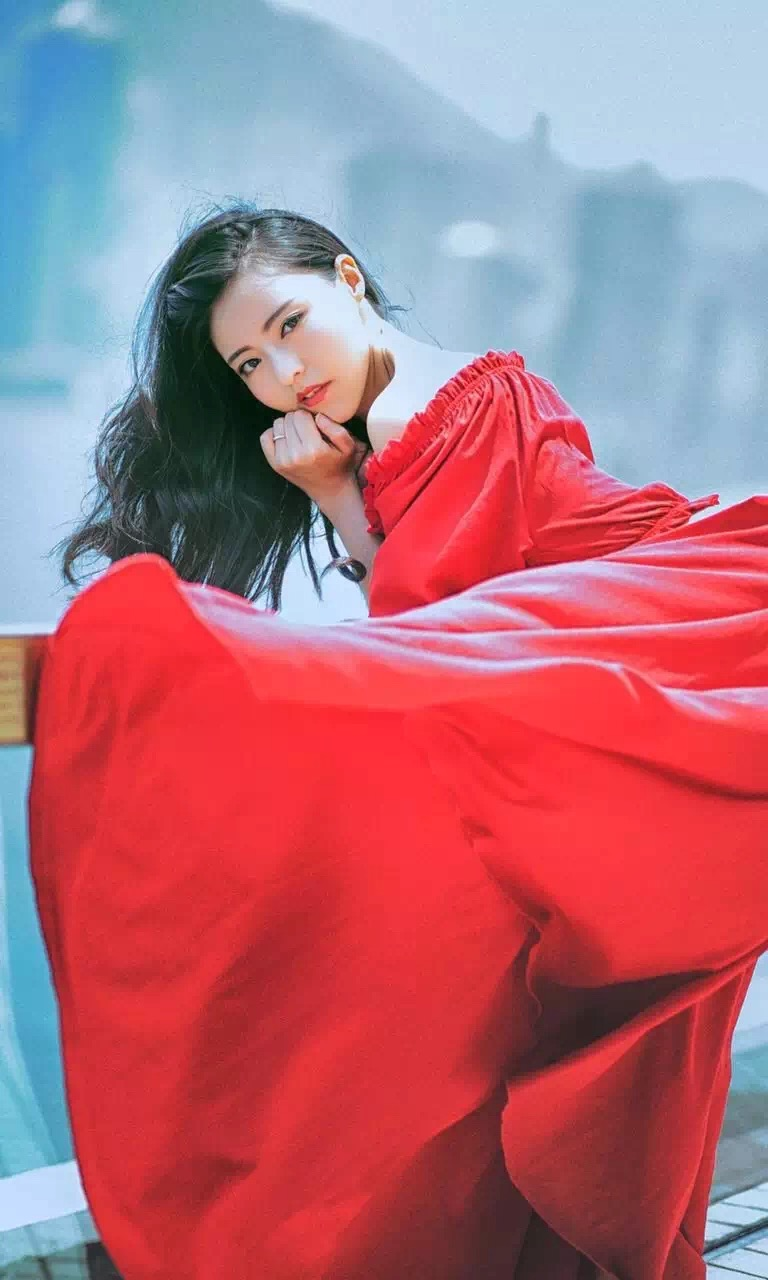
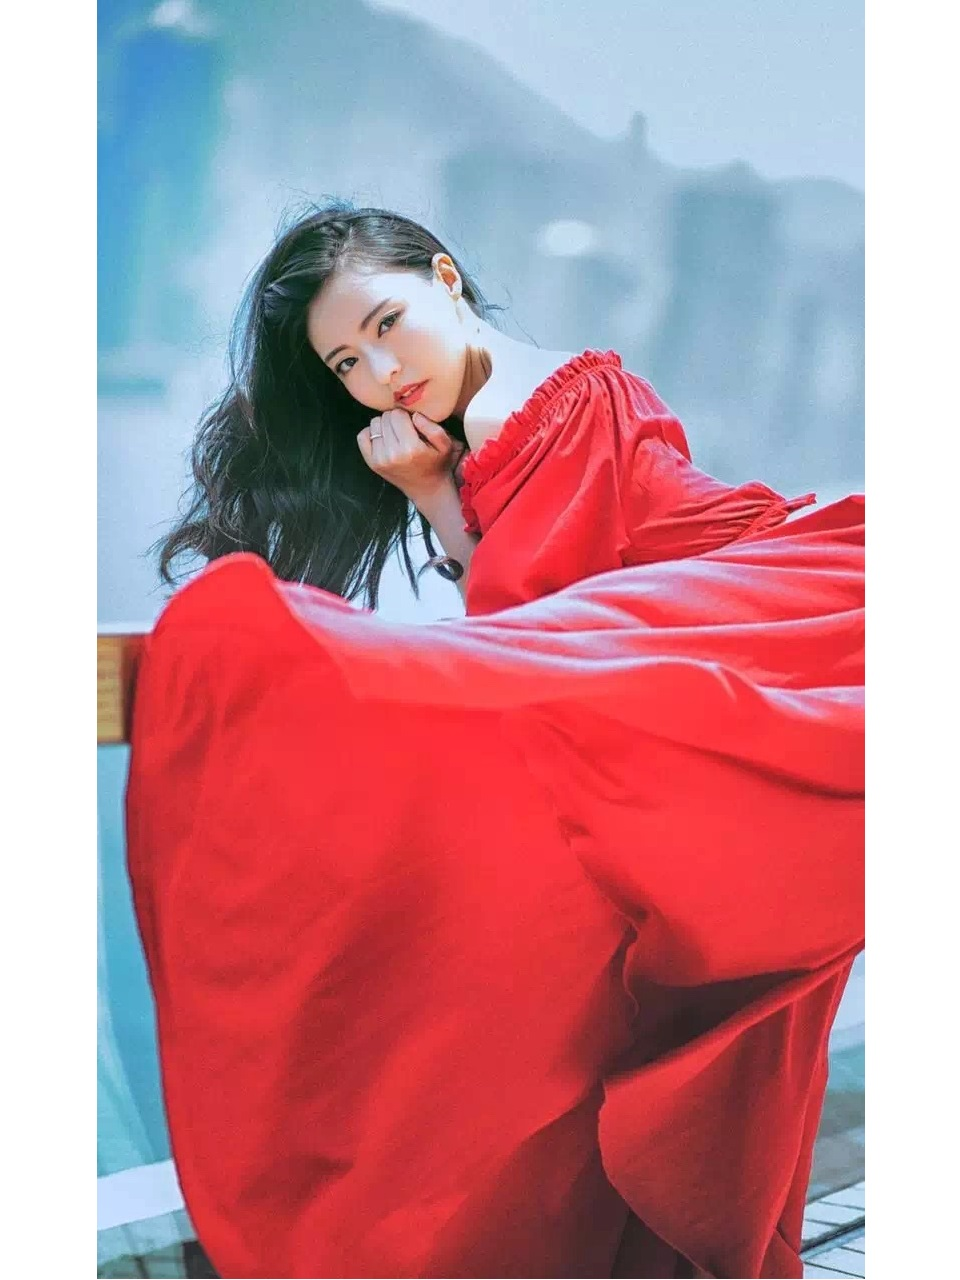
fixed the photo ratio

diff --git a/index.html b/index.html
@@ -16,7 +16,7 @@
         <center>
 <canvas id="heart" width="400" height="400"></canvas>
 </center>
-           <p>璇璇七夕快乐！！</p><p style="text-align:center;">I Love You!</p></div>
+           <p style="text-align:center;">璇璇七夕快乐!</p><p style="text-align:center;">I Love You !</p></div>
         <audio preload="auto" id="music">
             <source src="music.mp3" type="audio/mpeg" />
         </audio>
@@ -94,7 +94,7 @@
                     { point: "39.6, -3.3", text: "Te amo" },
                     { point: "42.9, 13.9", text: "Ti amo" },
                     { point: "61.5, 88.6", text: "Я люблю тебя" },
-                    { point: "36.6, 138.9", text: "私はあなたを愛して" },
+                    { point: "36.6, 138.9", text: "愛してる" },
                     { point: "36.9, 127.6", text: "난 널 사랑해" },
                     { point: "30.6, 114.3", text: "我爱你" },
                     { point: "30.6, 114.3", text: "我爱你" }
@@ -136,7 +136,7 @@
                 $.each(photos, function(i, photo){
                     var point = photo.point.split(",");
                     var infowindow = new google.maps.InfoWindow({
-                        content: "<img src='" + photo.src + "' style='width:400px;height:300px;' />",
+                        content: "<img src='" + photo.src + "' style='width:300px;height:400px;' />",
                         position: new google.maps.LatLng(point[0], point[1])
                     });
                     infowindows.push(infowindow);
